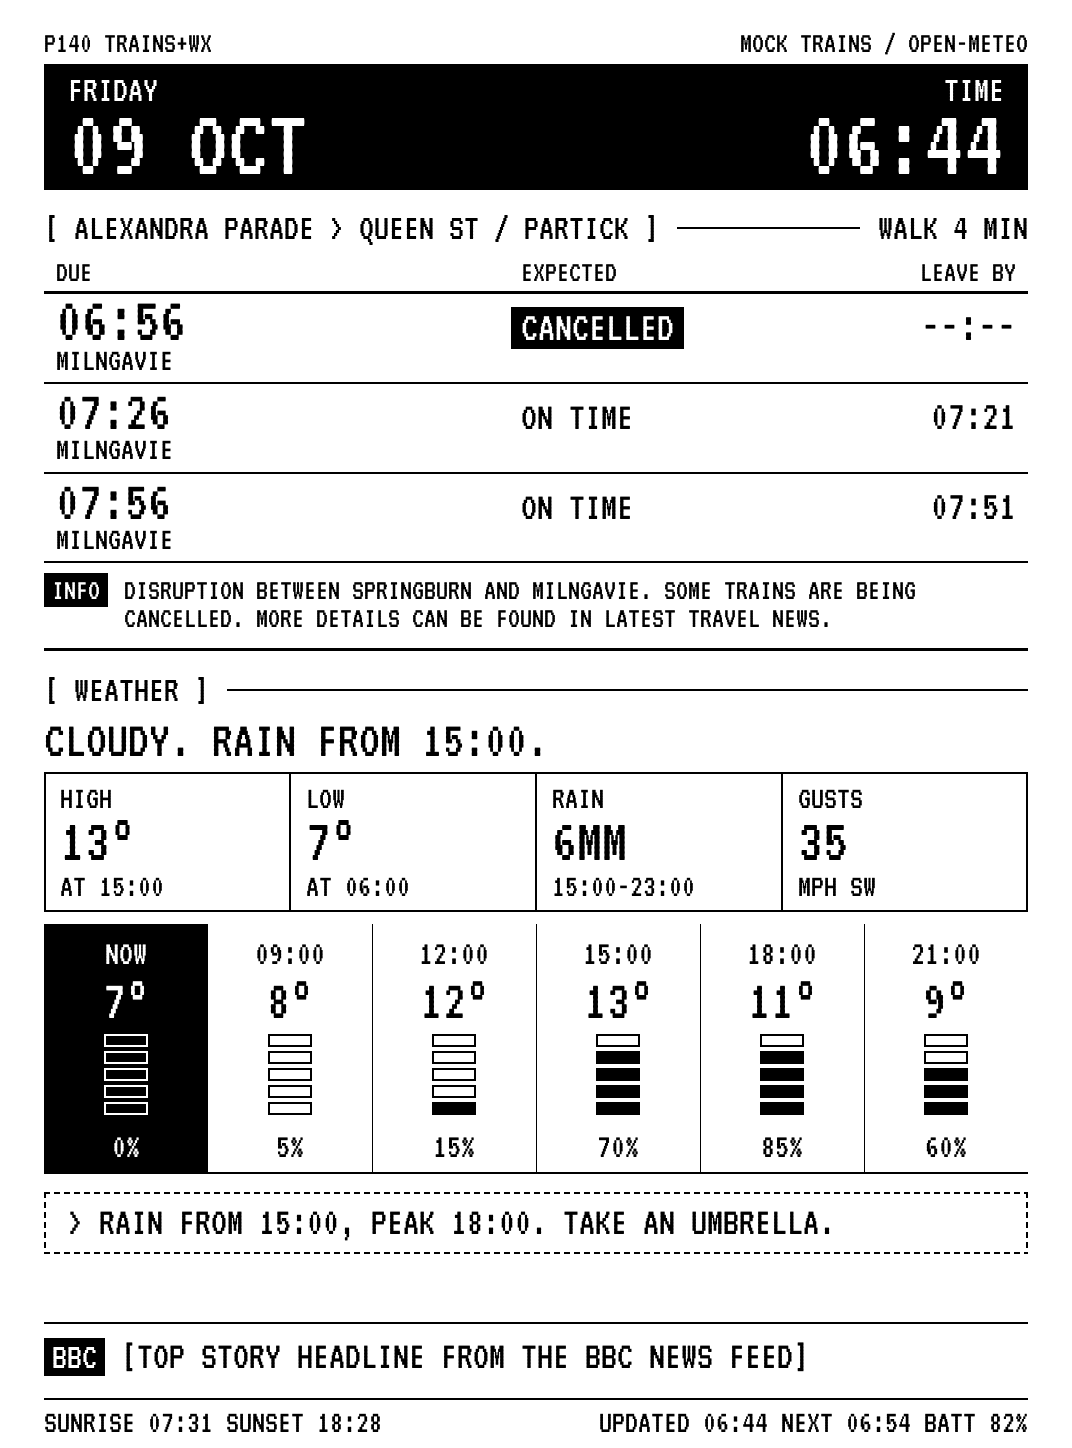
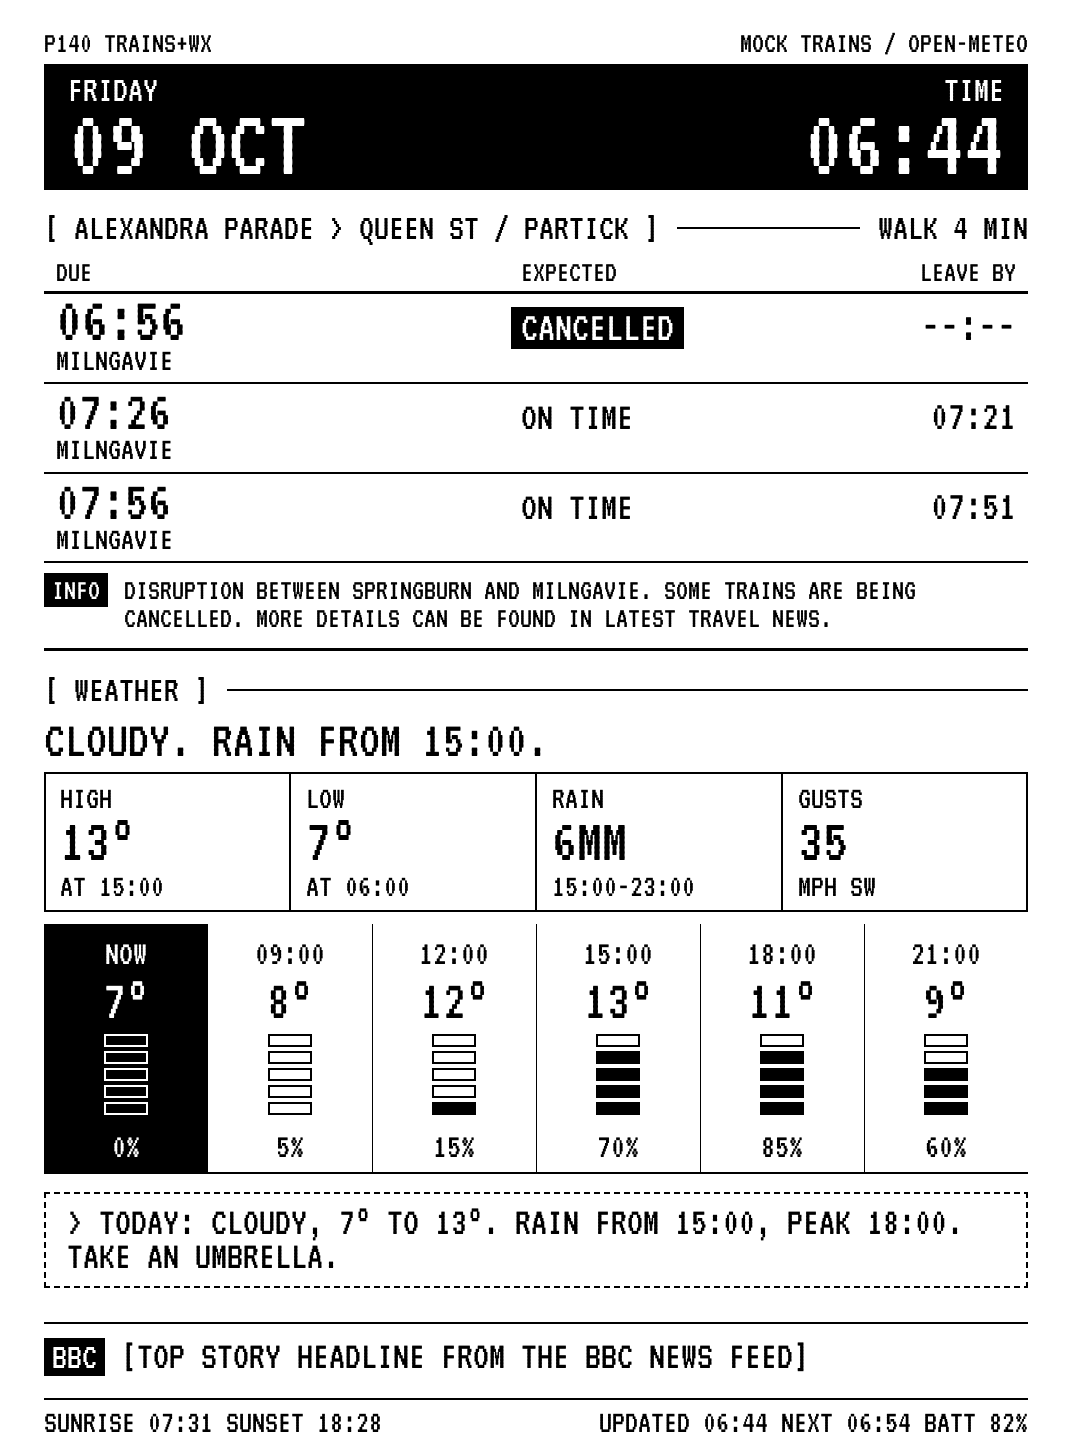
Always fill the weather box: today, this evening, then tomorrow
The box under the hourly strip now always has one line instead of only
showing warnings. Until 15:00 it covers the rest of today (after midnight,
the new day), from 15:00 the rest of the evening, and from 18:30 the whole
of tomorrow, each as: usual weather, low and high, rain or dry, then the
cold and hot warnings. When most hours are wet, the rain warning leads.
EVENING_FROM and TOMORROW_FROM replace TOMORROW_FROM_HOUR.

Claude-Session: https://claude.ai/code/session_014F3zqpjUE7gTcfpEDFa883

Changed region(s): [[0.0616, 0.8391, 0.8927, 0.9012]]

diff --git a/worker/test/weather.test.ts b/worker/test/weather.test.ts
@@ -24,57 +24,63 @@ describe("weather", () => {
       { label: "18:00", temp: 11, chance: 85 },
       { label: "21:00", temp: 9, chance: 60 },
     ]);
-    expect(w.notices).toEqual(["RAIN FROM 15:00, PEAK 18:00. TAKE AN UMBRELLA."]);
+    expect(w.outlook).toBe("TODAY: CLOUDY, 7° TO 13°. RAIN FROM 15:00, PEAK 18:00. TAKE AN UMBRELLA.");
     expect([w.sunrise, w.sunset]).toEqual(["07:31", "18:28"]);
   });
 
-  it("adds cold and hot notices", () => {
+  it("adds cold and hot warnings", () => {
     const cold = buildWeather(sampleForecast({ tempOffset: -6 }), londonTime(SAMPLE_TIME), cfg);
-    expect(cold.notices).toContain("LOW OF 1° AT 06:00. WRAP UP WARM.");
+    expect(cold.outlook).toBe("TODAY: CLOUDY, 1° TO 7°. RAIN FROM 15:00, PEAK 18:00. TAKE AN UMBRELLA. WRAP UP WARM.");
     const hot = buildWeather(sampleForecast({ tempOffset: 11 }), londonTime(SAMPLE_TIME), cfg);
-    expect(hot.notices).toContain("HIGH OF 24° AT 15:00. TAKE WATER.");
+    expect(hot.outlook).toMatch(/^TODAY: CLOUDY, 18° TO 24°\. .* TAKE WATER\.$/);
   });
 
-  it("has no notice on a dry, mild day", () => {
+  it("still fills the box on a dry, mild day", () => {
     const f = sampleForecast();
     f.hourly.precipitation_probability = f.hourly.precipitation_probability.map(() => 10);
     f.hourly.precipitation = f.hourly.precipitation.map(() => 0);
     f.hourly.weather_code = f.hourly.weather_code.map(() => 2);
     const w = buildWeather(f, londonTime(SAMPLE_TIME), cfg);
-    expect(w.notices).toEqual([]);
+    expect(w.outlook).toBe("TODAY: PARTLY CLOUDY, 7° TO 13°. DRY.");
     expect(w.summary).toBe("PARTLY CLOUDY. STAYING DRY.");
     expect(w.rain.window).toBeNull();
+    // Same in the evening, for tomorrow.
+    expect(buildWeather(f, at("2026-10-09T17:30:00Z"), cfg).outlook).toBe("TOMORROW: PARTLY CLOUDY, 7° TO 13°. DRY."); // 18:30 BST
   });
 
-  it("says when rain has already started", () => {
-    const w = buildWeather(sampleForecast(), at("2026-10-09T15:10:00Z"), cfg); // 16:10 BST
+  it("covers what is left of today until 15:00", () => {
+    // 14:59 BST: mostly wet from here, so the rain warning leads.
+    const w = buildWeather(sampleForecast(), at("2026-10-09T13:59:00Z"), cfg);
+    expect(w.outlook).toBe("TODAY: 8° TO 13°. RAIN FROM 15:00, PEAK 18:00. TAKE AN UMBRELLA.");
+  });
+
+  it("covers this evening from 15:00", () => {
+    expect(buildWeather(sampleForecast(), at("2026-10-09T14:00:00Z"), cfg).outlook).toBe(
+      "THIS EVENING: 8° TO 13°. RAIN NOW, PEAK 18:00. TAKE AN UMBRELLA.", // 15:00 BST
+    );
+    const w = buildWeather(sampleForecast(), at("2026-10-09T16:10:00Z"), cfg); // 17:10 BST
     expect(w.summary).toBe("RAIN UNTIL 00:00.");
-    expect(w.notices[0]).toBe("RAIN NOW, PEAK 18:00. TAKE AN UMBRELLA.");
+    expect(w.outlook).toBe("THIS EVENING: 8° TO 12°. RAIN NOW, PEAK 18:00. TAKE AN UMBRELLA.");
+    expect(buildWeather(sampleForecast(), at("2026-10-09T17:29:00Z"), cfg).outlook).toBe(
+      "THIS EVENING: 8° TO 11°. RAIN NOW. TAKE AN UMBRELLA.", // 18:29 BST
+    );
   });
 
-  it("describes tomorrow from 17:00, rain and all", () => {
-    const before = buildWeather(sampleForecast(), at("2026-10-09T15:59:00Z"), cfg); // 16:59 BST
-    expect(before.notices[0]).toBe("RAIN NOW, PEAK 18:00. TAKE AN UMBRELLA.");
-    const w = buildWeather(sampleForecast(), at("2026-10-09T16:00:00Z"), cfg); // 17:00 BST
-    expect(w.notices).toEqual(["TOMORROW: CLOUDY, 7° TO 13°. RAIN FROM 15:00, PEAK 18:00. TAKE AN UMBRELLA."]);
+  it("covers tomorrow from 18:30, then the new day after midnight", () => {
+    const evening = buildWeather(sampleForecast(), at("2026-10-09T17:30:00Z"), cfg); // 18:30 BST
+    expect(evening.outlook).toBe("TOMORROW: CLOUDY, 7° TO 13°. RAIN FROM 15:00, PEAK 18:00. TAKE AN UMBRELLA.");
     const late = buildWeather(sampleForecast(), at("2026-10-09T21:30:00Z"), cfg); // 22:30 BST
-    expect(late.notices).toEqual(w.notices);
+    expect(late.outlook).toBe(evening.outlook);
     expect(late.sunrise).toBe("07:31"); // tomorrow's, as today's sunset has passed
-  });
-
-  it("describes tomorrow even when nothing is worth a warning", () => {
-    const f = sampleForecast();
-    f.hourly.precipitation_probability = f.hourly.precipitation_probability.map(() => 10);
-    f.hourly.weather_code = f.hourly.weather_code.map(() => 2);
-    const w = buildWeather(f, at("2026-10-09T17:30:00Z"), cfg); // 18:30 BST
-    expect(w.notices).toEqual(["TOMORROW: PARTLY CLOUDY, 7° TO 13°. DRY."]);
+    const night = buildWeather(sampleForecast(), at("2026-10-10T01:00:00Z"), cfg); // 02:00 BST
+    expect(night.outlook).toBe("TODAY: CLOUDY, 7° TO 13°. RAIN FROM 15:00, PEAK 18:00. TAKE AN UMBRELLA.");
   });
 
   it("adds cold and hot warnings to tomorrow's line", () => {
     const cold = buildWeather(sampleForecast({ tempOffset: -6 }), at("2026-10-09T19:00:00Z"), cfg); // 20:00 BST
-    expect(cold.notices).toEqual(["TOMORROW: CLOUDY, 1° TO 7°. RAIN FROM 15:00, PEAK 18:00. TAKE AN UMBRELLA. WRAP UP WARM."]);
+    expect(cold.outlook).toBe("TOMORROW: CLOUDY, 1° TO 7°. RAIN FROM 15:00, PEAK 18:00. TAKE AN UMBRELLA. WRAP UP WARM.");
     const hot = buildWeather(sampleForecast({ tempOffset: 11 }), at("2026-10-09T19:00:00Z"), cfg);
-    expect(hot.notices[0]).toMatch(/^TOMORROW: CLOUDY, 18° TO 24°\. .* TAKE WATER\.$/);
+    expect(hot.outlook).toMatch(/^TOMORROW: CLOUDY, 18° TO 24°\. .* TAKE WATER\.$/);
   });
 
   it("names a wet day by its rain when most hours are wet", () => {
@@ -82,7 +88,13 @@ describe("weather", () => {
     f.hourly.weather_code = f.hourly.weather_code.map(() => 61);
     f.hourly.precipitation_probability = f.hourly.precipitation_probability.map(() => 30);
     const w = buildWeather(f, at("2026-10-09T19:00:00Z"), cfg);
-    expect(w.notices).toEqual(["TOMORROW: LIGHT RAIN, 7° TO 13°."]); // not "DRY", though below the rain-chance threshold
+    expect(w.outlook).toBe("TOMORROW: LIGHT RAIN, 7° TO 13°."); // not "DRY", though below the rain-chance threshold
+  });
+
+  it("takes its times from the config", () => {
+    const early = loadConfig({ EVENING_FROM: "14:00", TOMORROW_FROM: "16:00" });
+    expect(buildWeather(sampleForecast(), at("2026-10-09T13:00:00Z"), early).outlook).toMatch(/^THIS EVENING: /); // 14:00 BST
+    expect(buildWeather(sampleForecast(), at("2026-10-09T15:00:00Z"), early).outlook).toMatch(/^TOMORROW: /); // 16:00 BST
   });
 
   it("keeps the boxes within today", () => {
@@ -106,7 +118,7 @@ describe("weather", () => {
     // Low of 2° at 06:00 has passed by noon; the rest of the day stays above 3°.
     const w = buildWeather(sampleForecast({ tempOffset: -5 }), at("2026-10-09T11:00:00Z"), cfg);
     expect(w.low).toEqual({ temp: 2, at: "06:00" });
-    expect(w.notices.some((n) => n.startsWith("LOW"))).toBe(false);
+    expect(w.outlook).not.toContain("WRAP UP WARM");
   });
 
   it("rejects a forecast that doesn't cover now", () => {

diff --git a/worker/src/weather.ts b/worker/src/weather.ts
@@ -30,7 +30,8 @@ export interface WeatherView {
   rain: { totalMm: number; window: string | null };
   gusts: { mph: number; dir: string };
   hours: HourSlot[];
-  notices: string[];
+  /** The box under the strip: today, this evening or tomorrow, depending on the time. */
+  outlook: string | null;
   sunrise: string | null;
   sunset: string | null;
 }
@@ -211,33 +212,30 @@ export function buildWeather(data: ForecastData, now: LondonTime, cfg: Config): 
     return best;
   };
 
-  // Notices. Until the evening: warnings about the rest of today, only when
-  // a rule applies. From the evening: always one line about tomorrow.
-  const notices: string[] = [];
-  const nextDay = dayEnd + 1;
-  if (now.hour >= cfg.tomorrowFromHour && nextDay < h.time.length) {
-    const nextEnd = lastOfDate(dateOf(h.time[nextDay]), nextDay);
-    const lo = roundTemp(temp(extreme(nextDay, nextEnd, -1)));
-    const hi = roundTemp(temp(extreme(nextDay, nextEnd, 1)));
-    const code = typicalCode(nextDay, nextEnd);
-    const parts = [`TOMORROW: ${describeCode(code)}, ${lo}° TO ${hi}°.`];
-    const rain = rainNotice(nextDay, nextEnd);
+  /** One line about the hours [from, to]: the usual weather, low and high, rain (or dry), and warnings. */
+  const outlookLine = (label: string, from: number, to: number): string => {
+    const lo = roundTemp(temp(extreme(from, to, -1)));
+    const hi = roundTemp(temp(extreme(from, to, 1)));
+    const code = typicalCode(from, to);
+    const rain = rainNotice(from, to);
+    // A wet day with a rain warning: the warning says it, so skip "RAIN" up front.
+    const sky = rain && isPrecipCode(code) ? "" : `${describeCode(code)}, `;
+    const parts = [`${label}: ${sky}${lo === hi ? `${lo}°` : `${lo}° TO ${hi}°`}.`];
     if (rain) parts.push(rain);
     else if (!isPrecipCode(code)) parts.push("DRY.");
     if (lo < cfg.coldBelowC) parts.push("WRAP UP WARM.");
     if (hi > cfg.hotAboveC) parts.push("TAKE WATER.");
-    notices.push(parts.join(" "));
+    return parts.join(" ");
+  };
+
+  // Outlook: the rest of today (after midnight, the new day), called "this
+  // evening" from the afternoon, then tomorrow.
+  let outlook: string | null = null;
+  if (now.minutes >= cfg.tomorrowFrom) {
+    const next = dayEnd + 1;
+    if (next < h.time.length) outlook = outlookLine("TOMORROW", next, lastOfDate(dateOf(h.time[next]), next));
   } else {
-    const rain = rainNotice(i0, dayEnd);
-    if (rain) notices.push(rain);
-    const coldest = extreme(i0, dayEnd, -1);
-    const warmest = extreme(i0, dayEnd, 1);
-    if (roundTemp(temp(coldest)) < cfg.coldBelowC) {
-      notices.push(`LOW OF ${roundTemp(temp(coldest))}° AT ${clockOf(h.time[coldest])}. WRAP UP WARM.`);
-    }
-    if (roundTemp(temp(warmest)) > cfg.hotAboveC) {
-      notices.push(`HIGH OF ${roundTemp(temp(warmest))}° AT ${clockOf(h.time[warmest])}. TAKE WATER.`);
-    }
+    outlook = outlookLine(now.minutes >= cfg.eveningFrom ? "THIS EVENING" : "TODAY", i0, dayEnd);
   }
 
   // Sunrise/sunset: today's, or tomorrow's once today's sunset has passed.
@@ -252,7 +250,7 @@ export function buildWeather(data: ForecastData, now: LondonTime, cfg: Config): 
     rain: { totalMm: total, window: rainWindow },
     gusts: { mph: Math.round(h.wind_gusts_10m[gust] ?? 0), dir: compass(h.wind_direction_10m[gust] ?? 0) },
     hours,
-    notices,
+    outlook,
     sunrise: d >= 0 ? clockOf(data.daily.sunrise[d]) : null,
     sunset: d >= 0 ? clockOf(data.daily.sunset[d]) : null,
   };

diff --git a/worker/src/config.ts b/worker/src/config.ts
@@ -1,5 +1,7 @@
 // Worker environment and parsed configuration.
 
+import { parseHhmm } from "./time";
+
 /** The subset of the Workers KV API this project uses. */
 export interface KVLike {
   get(key: string, type: "json"): Promise<unknown>;
@@ -27,7 +29,8 @@ export interface Env {
   RAIN_TO_HOUR?: string;
   COLD_BELOW_C?: string;
   HOT_ABOVE_C?: string;
-  TOMORROW_FROM_HOUR?: string;
+  EVENING_FROM?: string;
+  TOMORROW_FROM?: string;
   SHOW_HEADLINE?: string;
 }
 
@@ -50,7 +53,10 @@ export interface Config {
   rainToHour: number;
   coldBelowC: number;
   hotAboveC: number;
-  tomorrowFromHour: number;
+  /** Minutes since midnight when the outlook box moves on to this evening. */
+  eveningFrom: number;
+  /** Minutes since midnight when the outlook box moves on to tomorrow. */
+  tomorrowFrom: number;
   showHeadline: boolean;
 }
 
@@ -88,7 +94,8 @@ export function loadConfig(env: Env): Config {
     rainToHour: num(env.RAIN_TO_HOUR, 22),
     coldBelowC: num(env.COLD_BELOW_C, 3),
     hotAboveC: num(env.HOT_ABOVE_C, 22),
-    tomorrowFromHour: num(env.TOMORROW_FROM_HOUR, 17),
+    eveningFrom: parseHhmm(env.EVENING_FROM) ?? 15 * 60,
+    tomorrowFrom: parseHhmm(env.TOMORROW_FROM) ?? 18 * 60 + 30,
     showHeadline: bool(env.SHOW_HEADLINE, true),
   };
 }

diff --git a/worker/src/layout.ts b/worker/src/layout.ts
@@ -244,7 +244,7 @@ function drawWeather(p: Painter, m: DashboardModel): number {
   p.text(w.summary, L, SUMMARY, 52.5, BLACK, "left", CW);
   drawBoxes(p, w);
   drawStrip(p, w);
-  return drawNotices(p, w.notices);
+  return drawOutlook(p, w.outlook);
 }
 
 function drawBoxes(p: Painter, w: WeatherView): void {
@@ -294,16 +294,12 @@ function drawStrip(p: Painter, w: WeatherView): void {
   });
 }
 
-function drawNotices(p: Painter, notices: string[]): number {
-  if (notices.length === 0) return STRIP_BOTTOM;
+function drawOutlook(p: Painter, outlook: string | null): number {
+  if (!outlook) return STRIP_BOTTOM;
   const size = 40;
   const lineH = 34;
   const maxW = CW - 46;
-  // At most two lines: one per notice, or one notice wrapped over two.
-  const lines =
-    notices.length === 1
-      ? p.wrap(`> ${notices[0]}`, size, maxW, 2)
-      : notices.slice(0, 2).map((n) => `> ${n}`);
+  const lines = p.wrap(`> ${outlook}`, size, maxW, 2);
   const h = 62 + (lines.length - 1) * lineH;
   p.c.dashedRect(L, NOTICE_TOP, CW, h, 2, 6, 4, BLACK);
   lines.forEach((line, i) => p.text(line, L + 23, NOTICE_TOP + 42 + i * lineH, size, BLACK, "left", maxW));

diff --git a/worker/src/render/warmup.ts b/worker/src/render/warmup.ts
@@ -42,7 +42,7 @@ function sampleModel(): DashboardModel {
         rain: { totalMm: 6, window: "15:00-23:00" },
         gusts: { mph: 35, dir: "SW" },
         hours: [0, 9, 12, 15, 18, 21].map((h, i) => ({ label: i ? `${String(h).padStart(2, "0")}:00` : "NOW", temp: 7 + i, chance: i * 20 })),
-        notices: ["RAIN FROM 15:00, PEAK 18:00. TAKE AN UMBRELLA."],
+        outlook: "TODAY: CLOUDY, 7° TO 13°. RAIN FROM 15:00, PEAK 18:00. TAKE AN UMBRELLA.",
         sunrise: "07:31",
         sunset: "18:28",
       },

diff --git a/worker/README.md b/worker/README.md
@@ -164,11 +164,12 @@ ignores). Neither is ever written to `wrangler.toml`.
 | `LIVE_TRAINS` | `true` | `true` uses live data, but only when `RDM_KEY` is set. Otherwise, or when `false`, mock data is used. |
 | `MOCK_SCENARIO` | `normal` | `normal`, `delayed` or `cancelled`. |
 | `LDB_URL` | `https://api1.raildata.org.uk/1010-live-departure-board-dep1_2/LDBWS/api/20220120/GetDepartureBoard` | Live Departure Board endpoint, without `/{crs}`. |
-| `RAIN_CHANCE_PCT` | `50` | Wet notice threshold… |
+| `RAIN_CHANCE_PCT` | `50` | Rain warning threshold… |
 | `RAIN_FROM_HOUR`, `RAIN_TO_HOUR` | `7`, `22` | …within these hours (inclusive). |
-| `COLD_BELOW_C` | `3` | Cold notice when the low is below this. |
-| `HOT_ABOVE_C` | `22` | Hot notice when the high is above this. |
-| `TOMORROW_FROM_HOUR` | `17` | From this hour until midnight, the notice box shows tomorrow's weather. |
+| `COLD_BELOW_C` | `3` | `WRAP UP WARM.` when the low is below this. |
+| `HOT_ABOVE_C` | `22` | `TAKE WATER.` when the high is above this. |
+| `EVENING_FROM` | `15:00` | The box under the strip switches to this evening… |
+| `TOMORROW_FROM` | `18:30` | …and then to tomorrow. |
 | `SHOW_HEADLINE` | `true` | `false` hides the BBC line. |
 
 Secrets: `ACCESS_TOKEN` (required), `RDM_KEY` (for live trains).
@@ -209,16 +210,22 @@ forecast is kept for up to 24 h and the heading says `AS OF hh:mm`):
 - The summary line looks 18 hours ahead.
 - The hourly strip starts with `NOW`, then every 3 hours on the 00/03/06…
   grid. Each gauge segment is 20% chance of rain.
-- Notices, until 17:00: warnings about the rest of today, only when a rule
-  applies:
-  - wet: rain chance ≥ 50% between 07:00 and 22:00, e.g.
-    `RAIN FROM 15:00, PEAK 18:00. TAKE AN UMBRELLA.`
-  - cold: a low below 3° still to come, e.g. `LOW OF 1° AT 06:00. WRAP UP WARM.`
-  - hot: a high above 22° still to come, e.g. `HIGH OF 24° AT 15:00. TAKE WATER.`
-- From 17:00 to midnight the notice box always shows tomorrow instead: the
-  usual weather between 07:00 and 22:00, the low and high, rain by the same rule
-  (or `DRY.`), and the cold and hot warnings, e.g.
-  `TOMORROW: CLOUDY, 7° TO 13°. RAIN FROM 15:00, PEAK 18:00. TAKE AN UMBRELLA.`
+- The box under the strip always has one line, which moves on through the day:
+
+  | From | Shows | Covers |
+  | --- | --- | --- |
+  | Midnight | `TODAY: …` | the rest of today (after midnight, the new day) |
+  | 15:00 | `THIS EVENING: …` | now until midnight |
+  | 18:30 | `TOMORROW: …` | the whole of tomorrow |
+
+  Each line gives the usual weather between 07:00 and 22:00, the low and high,
+  then rain (or `DRY.`), then `WRAP UP WARM.` if the low is below 3° or
+  `TAKE WATER.` if the high is above 22°. Rain counts when its chance is ≥ 50%
+  between 07:00 and 22:00. When most hours are wet, the rain warning leads
+  instead of the usual weather. For example:
+  - `TODAY: CLOUDY, 7° TO 13°. RAIN FROM 15:00, PEAK 18:00. TAKE AN UMBRELLA.`
+  - `THIS EVENING: 8° TO 13°. RAIN NOW, PEAK 18:00. TAKE AN UMBRELLA.`
+  - `TOMORROW: PARTLY CLOUDY, 1° TO 9°. DRY. WRAP UP WARM.`
 
 **Headline:** the first `<item>` title from `feeds.bbci.co.uk/news/rss.xml`,
 cached for 30 minutes. It wraps onto two lines when there's room.
@@ -233,7 +240,7 @@ src/handler.ts        token check, query parameters, PNG / JSON response
 src/dashboard.ts      gathers trains, weather, headline; each can fail alone
 src/trains/ldb.ts     Live Departure Board client and row selection
 src/trains/mock.ts    sample boards (normal / delayed / cancelled)
-src/weather.ts        Open-Meteo client, summary, boxes, strip, notices
+src/weather.ts        Open-Meteo client, summary, boxes, strip, outlook
 src/headline.ts       BBC RSS
 src/cache.ts          memory → KV (or Cache API) read-through cache
 src/layout.ts         all positions and sizes
